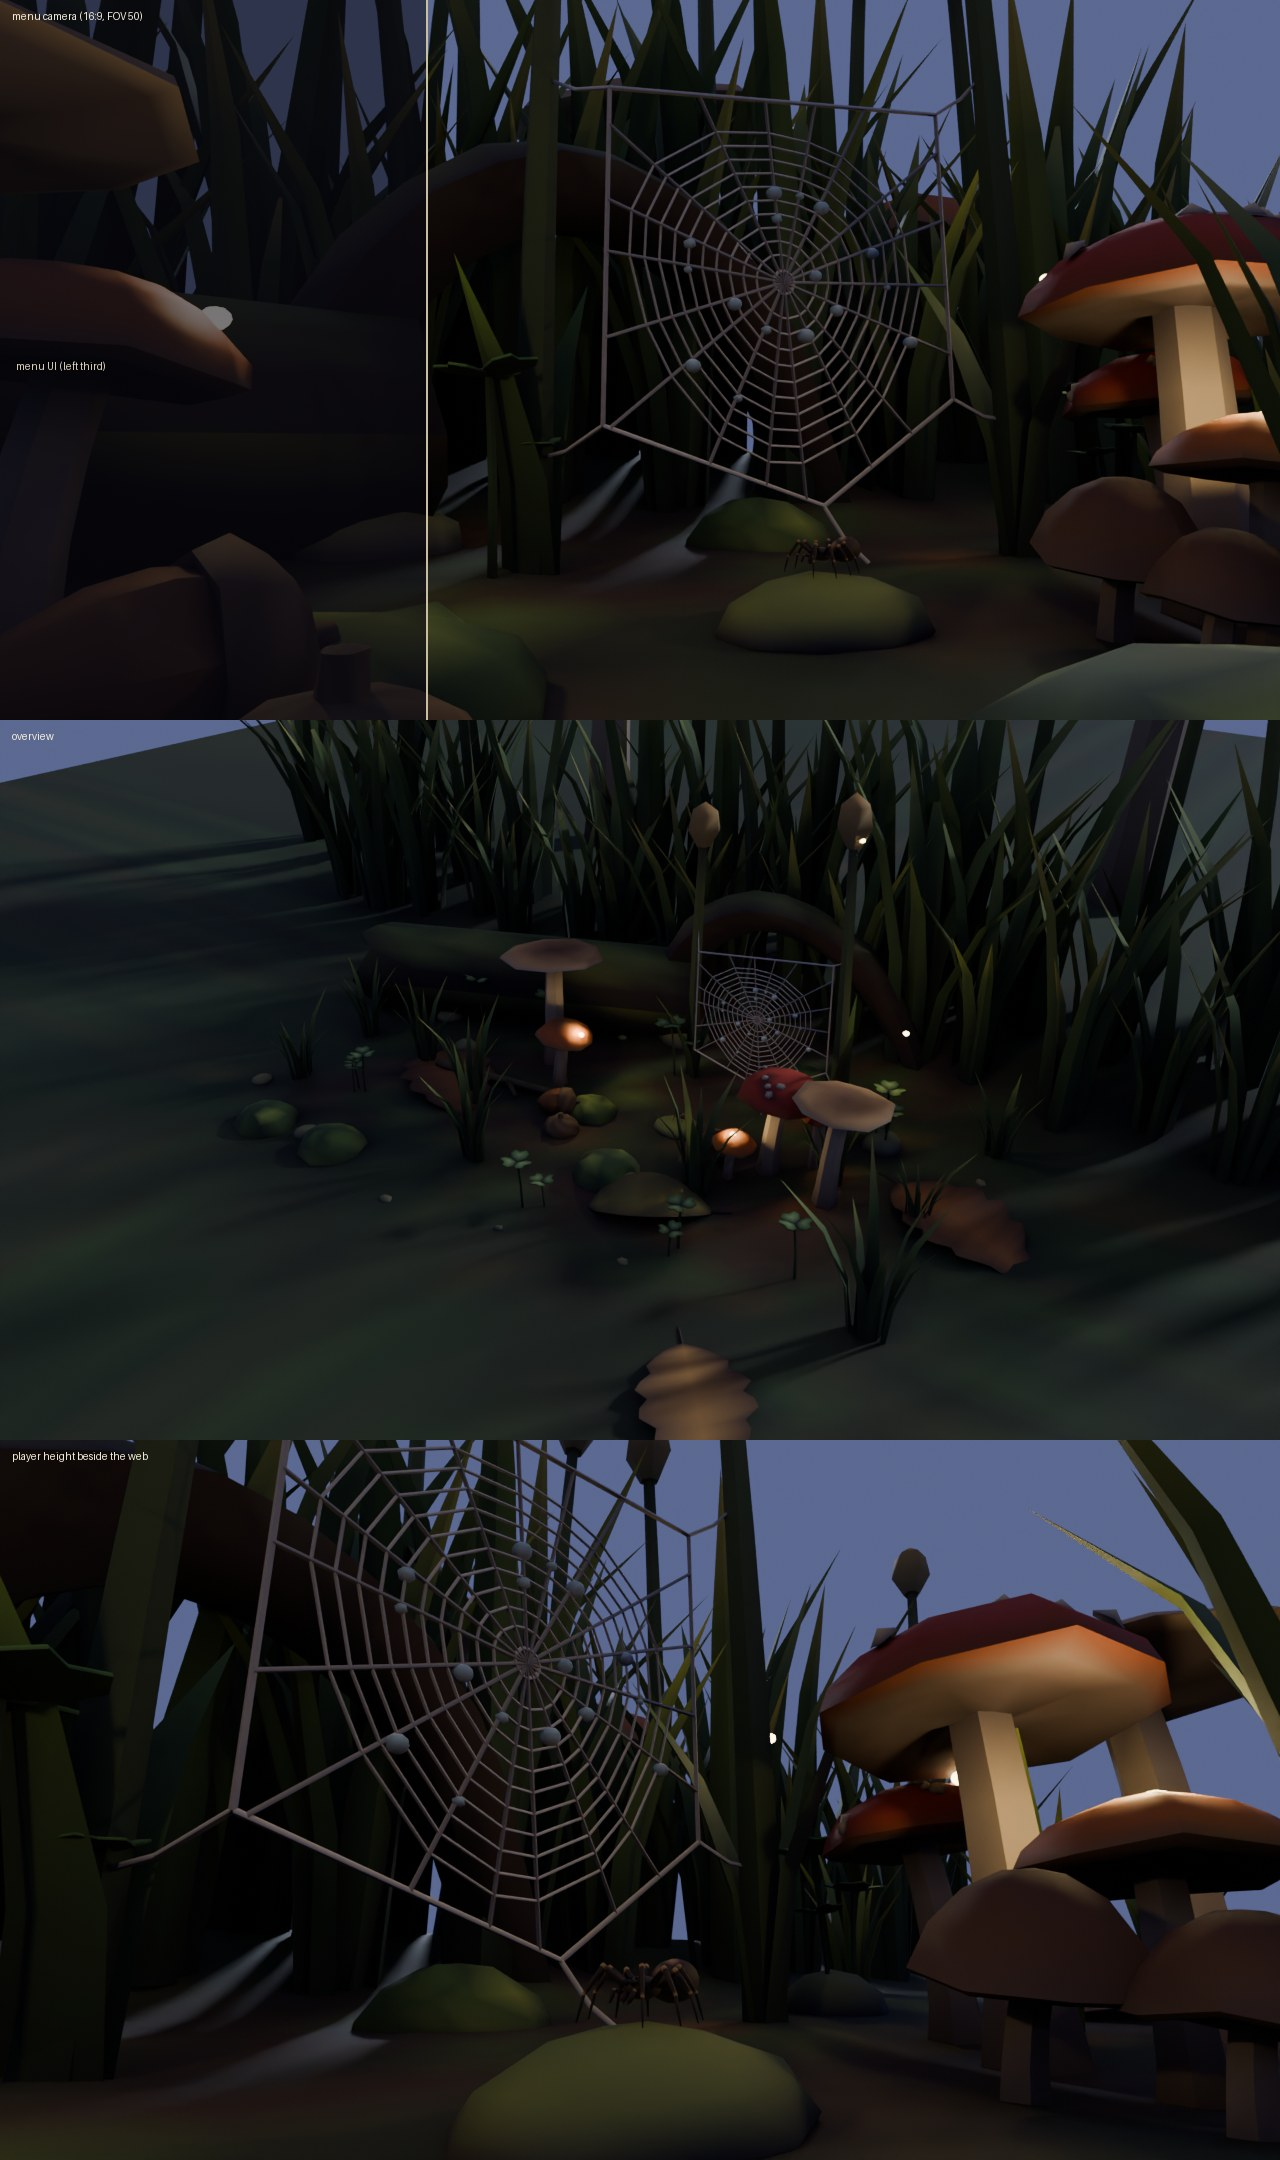
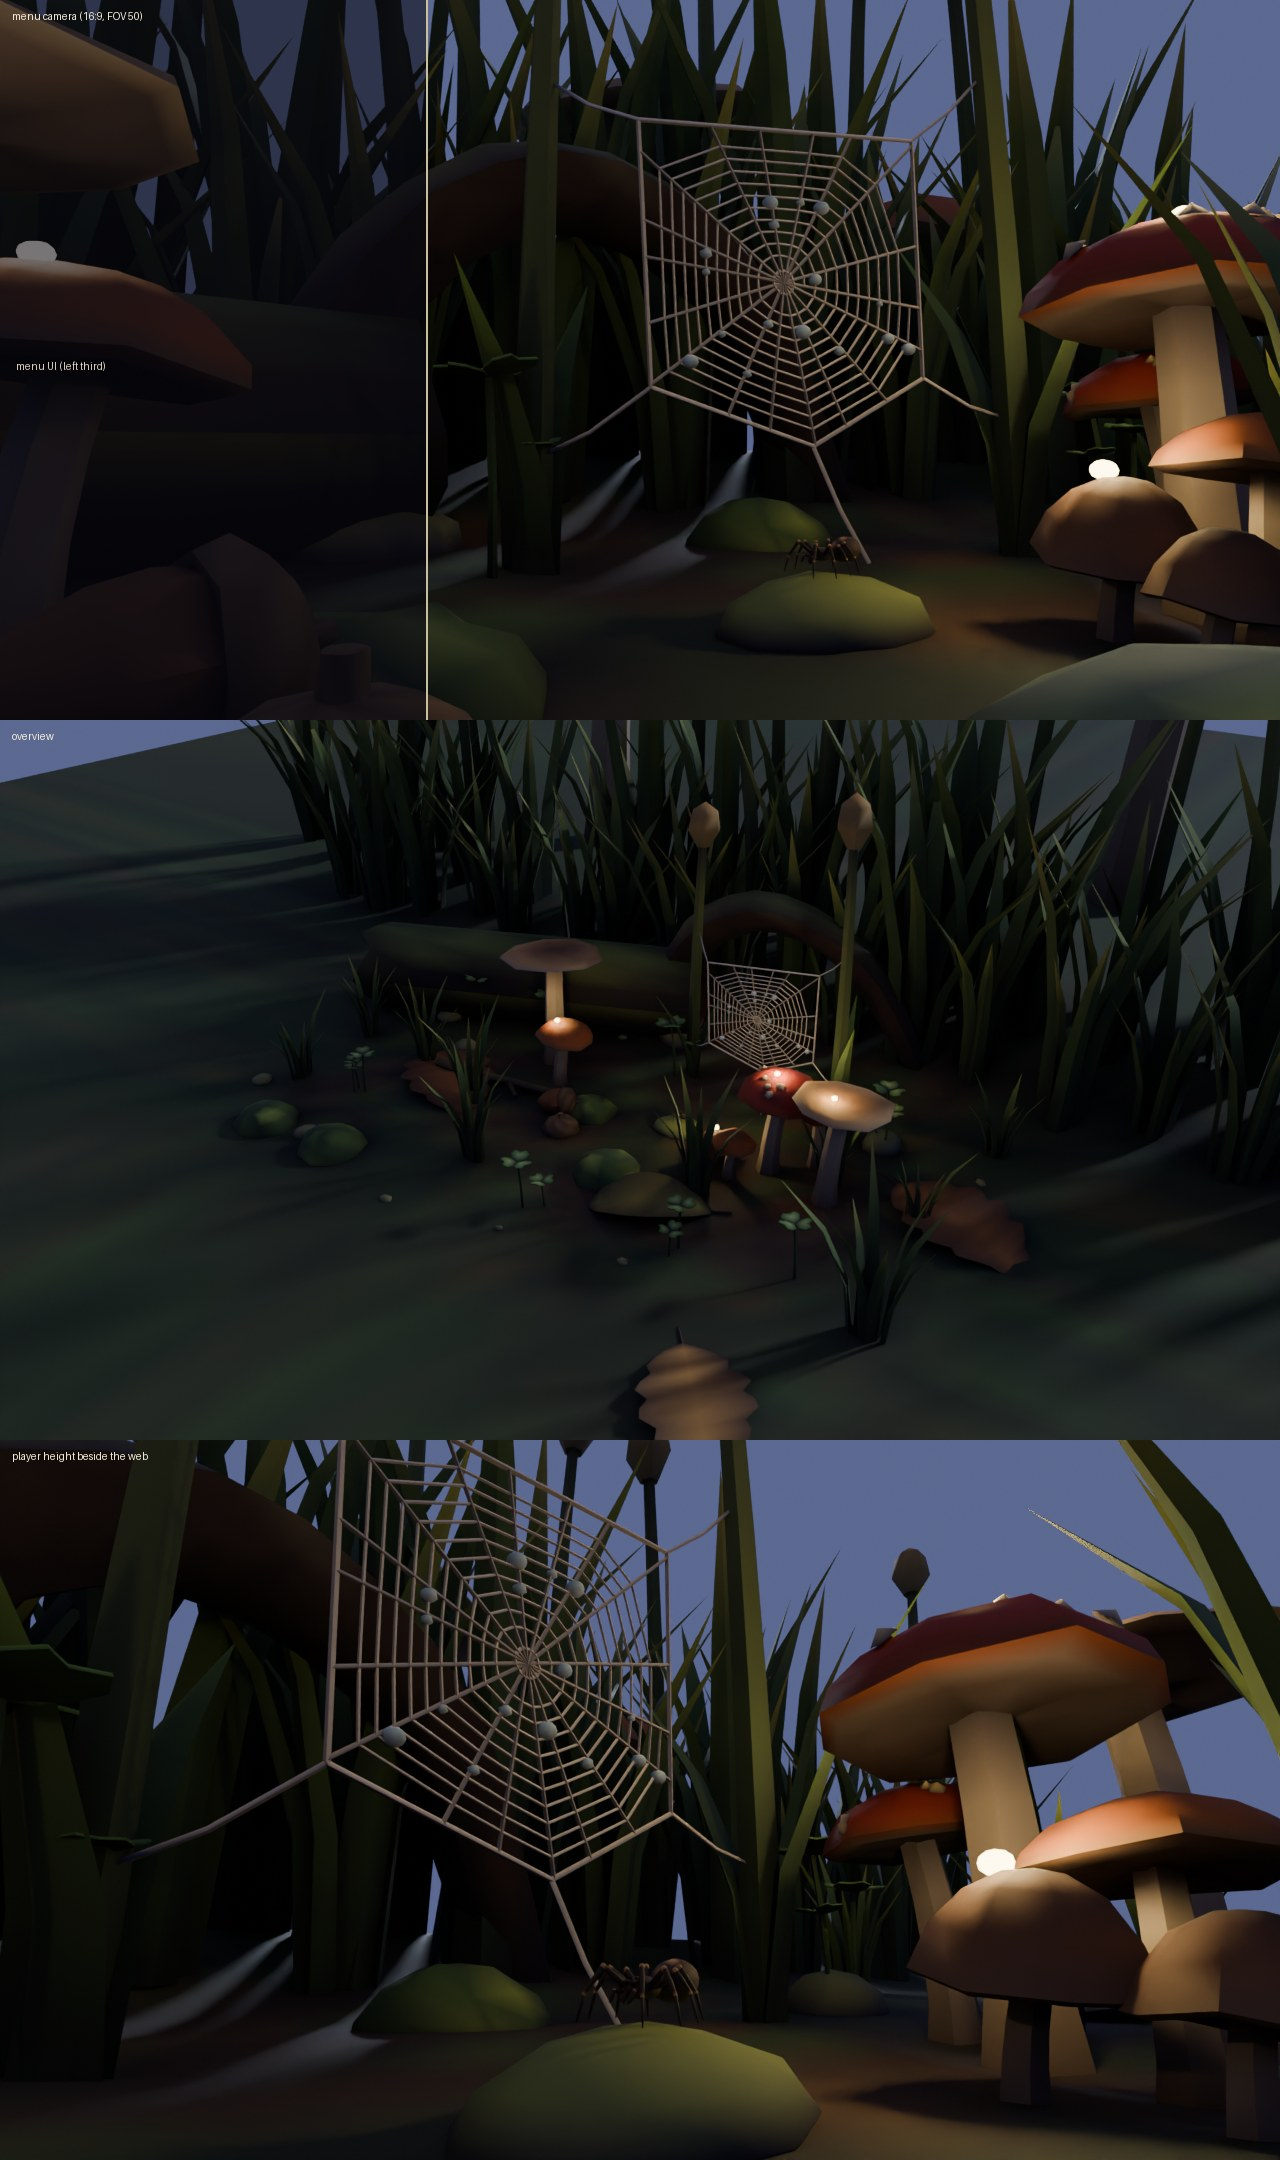
Finish first pass of the Blender maps: main menu, lobby, Mossy Hollow rooms
All maps within triangle budgets with exports, manifests (Blender and Roblox
marker positions), preview renders, a Maps section in the Blender README and a
status note listing known issues and rebuild commands.

Claude-Session: https://claude.ai/code/session_01HhbUzqeNuRZ5sv6JTAqdN8

diff --git a/blender/MAPS_STATUS.md b/blender/MAPS_STATUS.md
@@ -1,0 +1,68 @@
+# Maps status (paused mid-polish)
+
+All three maps build, pass their budget checks, and export. Mossy Hollow rooms also pass their doorway and footprint checks. The visual polish is part-done: the lobby had about three look-and-fix passes, the menu about two, and Mossy Hollow only one render, which may not be reviewed yet.
+
+## Done
+
+| Map / room | Tris / budget | Objects | Exports |
+|---|---|---|---|
+| `main_menu` | 19,512 / 25,000 | 119 | `exports/maps/main_menu.fbx` + `main_menu.manifest.json` |
+| `lobby` (Webhollow) | 55,728 / 60,000 | 328 | `exports/maps/lobby.fbx` + `lobby.manifest.json` |
+| `mossy_entry` | 4,650 / 8,000 | 34 | `exports/maps/mossy_hollow/mossy_entry.fbx` |
+| `mossy_hall` | 5,018 / 8,000 | 32 | `.../mossy_hall.fbx` |
+| `mossy_turn` | 5,576 / 8,000 | 38 | `.../mossy_turn.fbx` |
+| `mossy_arena_small` | 10,834 / 15,000 | 80 | `.../mossy_arena_small.fbx` |
+| `mossy_arena_large` | 11,138 / 15,000 | 83 | `.../mossy_arena_large.fbx` |
+| `mossy_treasure` | 6,814 / 8,000 | 27 | `.../mossy_treasure.fbx` |
+| `mossy_boss` | 15,810 / 25,000 | 101 | `.../mossy_boss.fbx` |
+
+- Mossy Hollow has one `exports/maps/mossy_hollow/manifest.json` for all rooms. For each room it records the doorway measurements: every opening is 28 wide and 29 tall at the crown, and the required clear passage is 24 × 20.
+- Sources are in `sources/maps/<map>.blend`. In `mossy_hollow.blend`, rooms are spread out for previewing and their object names carry a `.<room>` suffix, because Blender names must be unique. The FBX files use the clean names, and each room is exported at its own origin.
+- Tri totals count every instance, including linked duplicates. Markers are not counted.
+
+## Partial / not yet done
+
+- **Mossy Hollow visual review.** Only one render pass. Known issues from `renders/maps/mossy_hollow_rooms.jpg`:
+  - **Dark shards on the wall backs.** The outer, boundary-side face of each wall piece is one n-gon (`thick_panel(simple_b=True)` in `map_kit.py`). Its triangulation fans into dark shards. That face is hidden when rooms are adjacent, but it shows from outside and from above. Fix: fill the back with `triangle_fill` or a quad grid.
+  - **Contact-sheet framing.** The camera is too low and close for 1×1 rooms (it shows their outsides). Raise it or pull it back in `render_map.py` (the `rooms` sheet).
+  - **Rooms still to look at.** `mossy_hollow_close.jpg` hasn't been reviewed yet. Then tune wall colour, prop density and the ceiling pieces.
+- **Lobby polish.** The interior is dark in the previews and the sheet web still reads a little flat. The ground colour is blotchy from far away.
+- **Main menu.** The last tweaks (tighter web frame, fireflies dropped onto caps) are built and exported, but their render may not be reviewed yet.
+- **`blender/README.md` Maps section.** Not written yet. This file stands in for it.
+- **Not verified in Studio:**
+  - FBX import behaviour.
+  - Whether linked duplicates import as shared MeshIds.
+  - Vertex colours.
+  - Pivots. Markers are centred on their origin so a bounds-recentring import still gives the exact position.
+
+## Rebuild commands
+
+Use the bpy venv. With Blender instead, run `blender -b -P <script> -- <args>`.
+
+```
+PY=/tmp/claude-0/-home-user-helloboy/e94dfa7a-7753-568e-8df6-73aff00e46b7/scratchpad/bvenv/bin/python   # or any python with bpy 5.0 + Pillow
+$PY blender/scripts/maps/build_map.py --map main_menu
+$PY blender/scripts/maps/build_map.py --map lobby
+$PY blender/scripts/maps/build_map.py --map mossy_hollow
+$PY blender/scripts/maps/render_map.py --map main_menu      # renders/maps/main_menu_views.jpg
+$PY blender/scripts/maps/render_map.py --map lobby          # lobby_views.jpg, lobby_stations.jpg
+$PY blender/scripts/maps/render_map.py --map mossy_hollow   # mossy_hollow_rooms.jpg, mossy_hollow_close.jpg
+```
+
+- `--draft` reports budget overruns instead of raising and never exports. Use it only for preview iteration.
+- `--only <sheet>` renders a single sheet, and `--samples N` sets quality.
+
+## Files
+
+`blender/scripts/maps/`:
+- `map_kit.py` holds the geometry builder, noise, vertex-paint bake (light, AO, moss, hue shift, jitter), markers, budgets, FBX and manifest.
+- `map_props.py` holds the prop generators.
+- `map_stations.py` holds the 8 lobby stations.
+- `map_config.py` holds the palette, shading, the kit, and one entry per map and room.
+- `build_map.py` builds a map.
+- `render_map.py` renders the preview sheets.
+
+
+## Review notes (main session)
+- The Main Menu and Lobby renders read well. The Lobby interior is on the dark side, which is a lighting/Studio question more than a mesh one.
+- The `entry spawn` panel of `renders/maps/mossy_hollow_close.jpg` renders solid black. The preview camera is probably inside geometry, so fix the view in `render_map.py` before judging the entry room.

diff --git a/CLAUDE.md b/CLAUDE.md
@@ -361,7 +361,7 @@ StarterPlayer/
 ## 16. Roadmap
 | Milestone | Scope | Done when |
 |---|---|---|
-| **M0 Foundations** | **Delivered as installers:** Net (one remote), Registry, ProfileStore DataService, Platform/Input/Data controllers, Boot, place roles and travel, UI panel framework and templates (HUD, Settings, Dungeon Gate, Main Menu), map prep tool. **Maps:** Main Menu, Lobby and Mossy Hollow rooms being built in Blender. **To do:** install, import and check in Studio | You can join, data saves, and a panel opens and closes on PC, console and phone. |
+| **M0 Foundations** | **Delivered as installers:** Net (one remote), Registry, ProfileStore DataService, Platform/Input/Data controllers, Boot, place roles and travel, UI panel framework and templates (HUD, Settings, Dungeon Gate, Main Menu), map prep tool. **Maps:** first pass of Main Menu, Lobby and all 7 Mossy Hollow rooms built in Blender, within budget (see `blender/MAPS_STATUS.md`). **To do:** install, import and check in Studio | You can join, data saves, and a panel opens and closes on PC, console and phone. |
 | **M1 Spider feel** | **Prototype delivered:** wall and ceiling walking, edge wrapping, jump and drop, landing on any surface, Silk Line zip. **To do:** tune the feel in Studio, Spiderling mesh and animations (built in `blender/`, import pending), foot IK, Bite on a dummy | Crossing a room over its walls and ceiling feels good on PC and phone. |
 | **M2 Combat core** | Ability framework, status effects, 2 enemy archetypes, damage numbers, cocoon and revive | 2 players clear a test room. |
 | **M3 Dungeon run** | Room generator, Mossy Hollow kit, mini-boss and Ant Queen, loot drops, results screen, lobby↔dungeon travel with the MemoryStore run record | A full run works end to end and the loot banks. **This is the vertical slice.** |

diff --git a/blender/README.md b/blender/README.md
@@ -69,3 +69,17 @@ To add a form, add an entry to `FORMS` in `spider_config.py` (proportions, palet
 5. **Ask before uploading.** Asset-bridge uploads publish to the group.
 
 Write anything you learn here back into this checklist and into `build_spider.py`.
+
+## Maps
+
+There are three places: `main_menu` (menu backdrop), `lobby` (the Webhollow hub) and `mossy_hollow` (the dungeon room kit). All are built headless from `scripts/maps/` and are config-driven, like the spider pipeline. Current state, triangle totals and rebuild commands are in `MAPS_STATUS.md`.
+
+```
+python blender/scripts/maps/build_map.py  --map lobby     # sources/maps/lobby.blend, exports/maps/lobby.fbx + lobby.manifest.json
+python blender/scripts/maps/render_map.py --map lobby     # renders/maps/lobby_*.jpg
+```
+
+- **Names.** Every exported object starts with `COL_` (walkable solid), `PROP_` (solid prop), `DECO_` (no collision) or `MARKER_` (a tiny tetrahedron whose origin, and bounds centre, is the position).
+- **Materials and colour.** Each map has one vertex-colour material. Colour lives in the corner attribute `Col`, and repeated props are linked duplicates.
+- **Budgets.** Every object is capped at 10k tris, and each map or room has a total budget. The build raises when either is exceeded.
+- **Room kit.** Mossy Hollow rooms are exported one FBX per room, each at its own origin. The build also raises unless every connector sits exactly on the boundary, the floor is at z = 0 in every doorway, a 24 × 20 passage is clear, and everything stays inside the footprint.
